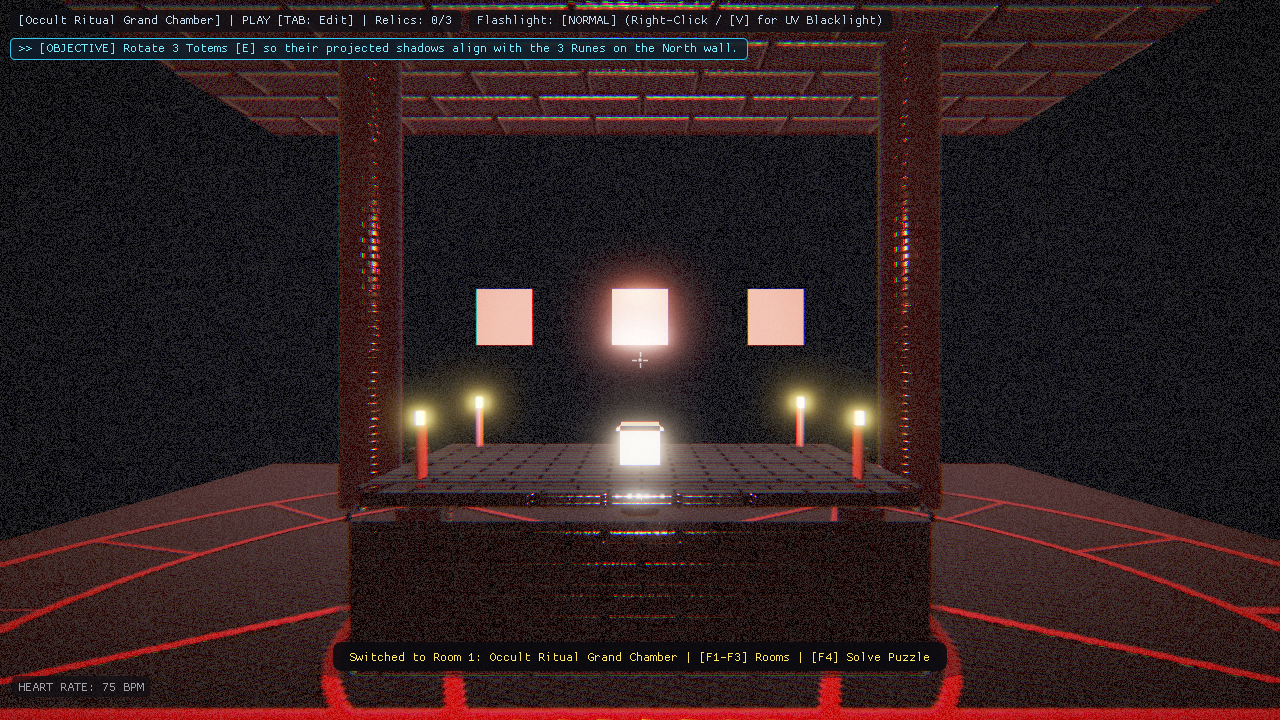
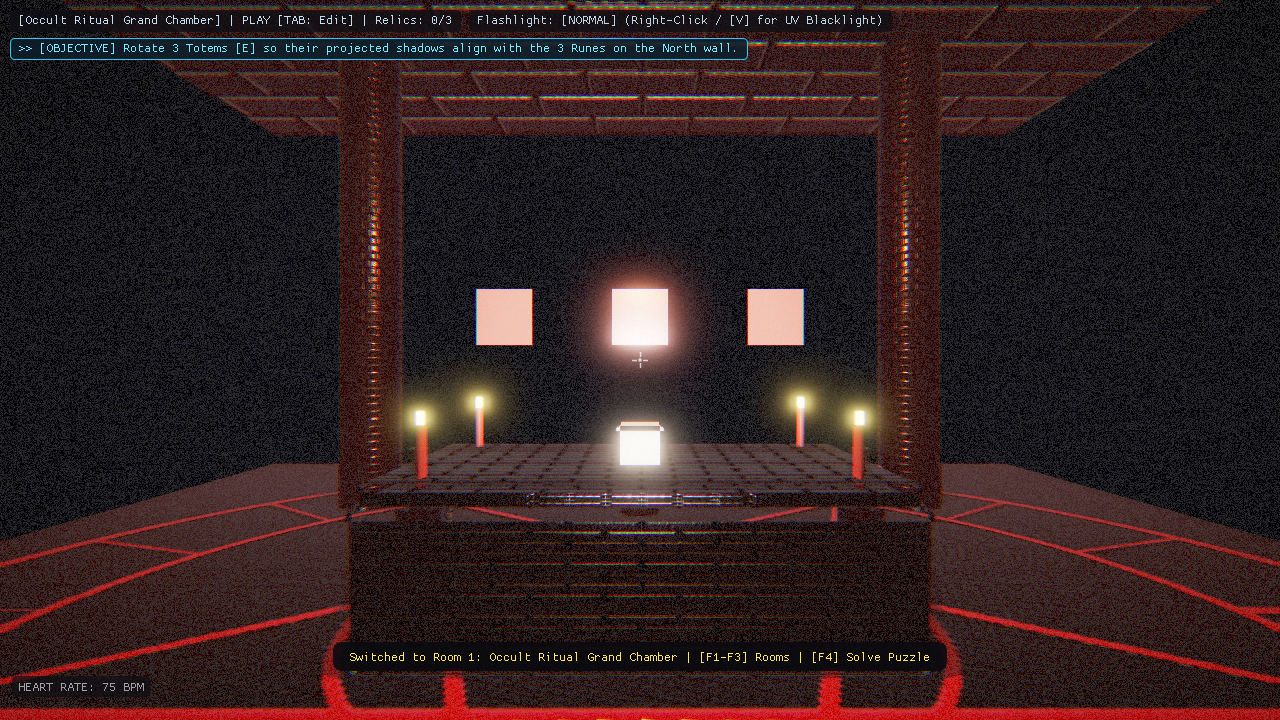
feat(graphics): early-z restoration via uv decal pass, specular anti-aliasing, inspect depth isolation, realistic glass mirror

diff --git a/src/Core/Application.cpp b/src/Core/Application.cpp
@@ -146,6 +146,11 @@ bool Application::init(int width, int height, const std::string& title) {
         }
     }
 
+    // Load UV Decal Shaders for Early-Z optimized fluorescent decals
+    if (!uvDecalShader.loadFromFiles("assets/shaders/uv_decal.vert", "assets/shaders/uv_decal.frag")) {
+        uvDecalShader.loadFromFiles("uv_decal.vert", "uv_decal.frag");
+    }
+
     // Initialize Post-Processing FBO Pipeline
     std::string postVert = "assets/shaders/post_process.vert";
     std::string postFrag = "assets/shaders/post_process.frag";
@@ -588,8 +593,95 @@ void Application::run() {
         lightingShader.setBool("uIsUVMode", interactionMgr.isUvLightActive);
 
         std::string selectedId = guiLayer.selectedObject ? guiLayer.selectedObject->id : "";
+        bool inspectingItem = interactionMgr.isInspectMode && 
+                              (interactionMgr.currentInspectType == InspectType::GoldenKey || interactionMgr.currentInspectType == InspectType::SigilFragment) &&
+                              interactionMgr.keyObject != nullptr;
+        bool origKeyVis = true;
+        if (inspectingItem && interactionMgr.keyObject) {
+            origKeyVis = interactionMgr.keyObject->isVisible;
+            interactionMgr.keyObject->isVisible = false; // Hide from world pass while inspecting
+        }
+
         if (sceneRoot) {
             sceneRoot->draw(lightingShader, hoveredObjectId, selectedId, RenderLayer::RealOnly);
+        }
+
+        // ------------------------------------------------------------------------
+        // PASS 1B: UV FLUORESCENT DECAL OVERLAY (Additive Blend + Polygon Offset)
+        // ------------------------------------------------------------------------
+        if (interactionMgr.isUvLightActive || currentRoomIndex == 1) {
+            uvDecalShader.use();
+            uvDecalShader.setMat4("projection", projection);
+            uvDecalShader.setMat4("view", view);
+            uvDecalShader.setVec3("spotLight.position", spotLight.position);
+            uvDecalShader.setVec3("spotLight.direction", spotLight.direction);
+            uvDecalShader.setFloat("spotLight.cutOff", spotLight.cutOff);
+            uvDecalShader.setFloat("spotLight.outerCutOff", spotLight.outerCutOff);
+            uvDecalShader.setBool("spotLight.enabled", spotLight.enabled);
+            uvDecalShader.setBool("uIsUVMode", interactionMgr.isUvLightActive);
+            uvDecalShader.setBool("isUvLightActive", interactionMgr.isUvLightActive);
+
+            glEnable(GL_BLEND);
+            glBlendFunc(GL_SRC_ALPHA, GL_ONE); // Additive fluorescent glow
+            glDepthMask(GL_FALSE);             // Don't overwrite opaque depth buffer
+            glEnable(GL_POLYGON_OFFSET_FILL);
+            glPolygonOffset(-1.0f, -1.0f);     // Zero Z-fighting against walls
+
+            if (sceneRoot) {
+                sceneRoot->draw(uvDecalShader, "", "", RenderLayer::UVDecalsOnly);
+            }
+
+            glDisable(GL_POLYGON_OFFSET_FILL);
+            glDepthMask(GL_TRUE);
+            glDisable(GL_BLEND);
+        }
+
+        // ------------------------------------------------------------------------
+        // PASS 1C: INSPECT MODE DEPTH ISOLATION (Turntable without scene clipping)
+        // ------------------------------------------------------------------------
+        if (inspectingItem && interactionMgr.keyObject) {
+            glClear(GL_DEPTH_BUFFER_BIT); // Depth buffer isolation: never clipped by walls or desks
+
+            glm::mat4 inspectProj = glm::perspective(glm::radians(45.0f), (float)windowWidth / (float)windowHeight, 0.05f, 10.0f);
+            glm::mat4 inspectView = glm::lookAt(glm::vec3(0.0f, 0.0f, 1.25f), glm::vec3(0.0f, 0.0f, 0.0f), glm::vec3(0.0f, 1.0f, 0.0f));
+
+            lightingShader.use();
+            lightingShader.setMat4("projection", inspectProj);
+            lightingShader.setMat4("view", inspectView);
+            lightingShader.setVec3("viewPos", glm::vec3(0.0f, 0.0f, 1.25f));
+
+            // Dedicated inspect lighting
+            lightingShader.setBool("pointLight.enabled", true);
+            lightingShader.setVec3("pointLight.position", glm::vec3(0.8f, 1.2f, 1.5f));
+            lightingShader.setVec3("pointLight.color", glm::vec3(1.0f, 0.96f, 0.90f));
+            lightingShader.setFloat("pointLight.intensity", 12.0f);
+            lightingShader.setFloat("pointLight.constant", 1.0f);
+            lightingShader.setFloat("pointLight.linear", 0.09f);
+            lightingShader.setFloat("pointLight.quadratic", 0.032f);
+
+            lightingShader.setBool("spotLight.enabled", false);
+            lightingShader.setBool("pointShadowEnabled", false);
+            lightingShader.setBool("spotShadowEnabled", false);
+            lightingShader.setBool("usePlanarReflection", false);
+            lightingShader.setBool("isUvLightActive", false);
+            lightingShader.setBool("uIsUVMode", false);
+            lightingShader.setFloat("highlightFactor", 0.0f);
+
+            glm::vec3 origPos = interactionMgr.keyObject->position;
+            glm::vec3 origRot = interactionMgr.keyObject->rotation;
+            glm::vec3 origScale = interactionMgr.keyObject->scale;
+
+            interactionMgr.keyObject->isVisible = true;
+            interactionMgr.keyObject->position = glm::vec3(0.0f, 0.0f, 0.0f);
+            interactionMgr.keyObject->rotation = glm::vec3(interactionMgr.inspectPitch, interactionMgr.inspectYaw, 0.0f);
+            interactionMgr.keyObject->scale = glm::vec3(0.48f);
+
+            interactionMgr.keyObject->draw(lightingShader, "", "", RenderLayer::Both);
+
+            interactionMgr.keyObject->position = origPos;
+            interactionMgr.keyObject->rotation = origRot;
+            interactionMgr.keyObject->scale = origScale;
+            interactionMgr.keyObject->isVisible = origKeyVis;
         }
 
         // Render Atmospheric Dust Motes
@@ -1148,6 +1240,34 @@ void Application::runBenchmarkAndCaptureScreenshots() {
         std::string selectedId = guiLayer.selectedObject ? guiLayer.selectedObject->id : "";
         if (sceneRoot) {
             sceneRoot->draw(lightingShader, hoveredObjectId, selectedId, RenderLayer::RealOnly);
+        }
+
+        // UV Decal overlay pass during benchmark capture
+        if (interactionMgr.isUvLightActive || currentRoomIndex == 1) {
+            uvDecalShader.use();
+            uvDecalShader.setMat4("projection", projection);
+            uvDecalShader.setMat4("view", view);
+            uvDecalShader.setVec3("spotLight.position", spotLight.position);
+            uvDecalShader.setVec3("spotLight.direction", spotLight.direction);
+            uvDecalShader.setFloat("spotLight.cutOff", spotLight.cutOff);
+            uvDecalShader.setFloat("spotLight.outerCutOff", spotLight.outerCutOff);
+            uvDecalShader.setBool("spotLight.enabled", spotLight.enabled);
+            uvDecalShader.setBool("uIsUVMode", interactionMgr.isUvLightActive);
+            uvDecalShader.setBool("isUvLightActive", interactionMgr.isUvLightActive);
+
+            glEnable(GL_BLEND);
+            glBlendFunc(GL_SRC_ALPHA, GL_ONE);
+            glDepthMask(GL_FALSE);
+            glEnable(GL_POLYGON_OFFSET_FILL);
+            glPolygonOffset(-1.0f, -1.0f);
+
+            if (sceneRoot) {
+                sceneRoot->draw(uvDecalShader, "", "", RenderLayer::UVDecalsOnly);
+            }
+
+            glDisable(GL_POLYGON_OFFSET_FILL);
+            glDepthMask(GL_TRUE);
+            glDisable(GL_BLEND);
         }
 
         if (particleSystem.enabled) {

diff --git a/src/scene/SceneObject.cpp b/src/scene/SceneObject.cpp
@@ -158,6 +158,44 @@ void SceneObject::draw(const Shader& shader, const std::string& hoveredId, const
     // If drawing planar mirror reflection pass only, skip real-only objects
     if (passLayer == RenderLayer::MirrorOnly && renderLayer == RenderLayer::RealOnly) return;
 
+    // UV Decals separation for Early-Z hardware restoration
+    if (passLayer == RenderLayer::UVDecalsOnly) {
+        if (!material.uIsUVReactive) {
+            for (const auto& child : children) {
+                if (child) child->draw(shader, hoveredId, selectedId, passLayer);
+            }
+            return;
+        }
+
+        if (mesh && primitiveType != PrimitiveType::None) {
+            glm::mat4 model = getWorldMatrix();
+            shader.setMat4("model", model);
+            shader.setVec3("decalColor", material.albedoColor);
+            shader.setFloat("decalIntensity", material.emissiveIntensity > 0.0f ? material.emissiveIntensity * 2.2f : 4.5f);
+            bool useTex = material.useTexture && material.textureId != 0;
+            shader.setBool("useDecalTexture", useTex);
+            if (useTex) {
+                glActiveTexture(GL_TEXTURE0);
+                glBindTexture(GL_TEXTURE_2D, material.textureId);
+                shader.setInt("decalTexture", 0);
+            }
+            mesh->draw();
+        }
+
+        for (const auto& child : children) {
+            if (child) child->draw(shader, hoveredId, selectedId, passLayer);
+        }
+        return;
+    } else {
+        // In standard geometry passes, skip UV reactive decals to restore 100% hardware Early-Z
+        if (material.uIsUVReactive) {
+            for (const auto& child : children) {
+                if (child) child->draw(shader, hoveredId, selectedId, passLayer);
+            }
+            return;
+        }
+    }
+
     if (mesh && primitiveType != PrimitiveType::None) {
         glm::mat4 model = getWorldMatrix();
         glm::mat3 normalMat = getNormalMatrix();

diff --git a/src/Core/Application.hpp b/src/Core/Application.hpp
@@ -64,6 +64,7 @@ private:
     Camera camera;
     PlayerController playerController;
     Shader lightingShader;
+    Shader uvDecalShader;
     PostProcessor postProcessor;
     IblPipeline iblPipeline;
     ShadowPipeline shadowPipeline;

diff --git a/src/Core/Common.hpp b/src/Core/Common.hpp
@@ -51,7 +51,8 @@ enum class PrimitiveType {
 enum class RenderLayer {
     Both = 0,
     RealOnly = 1,
-    MirrorOnly = 2
+    MirrorOnly = 2,
+    UVDecalsOnly = 3
 };
 
 enum class InteractionType {
